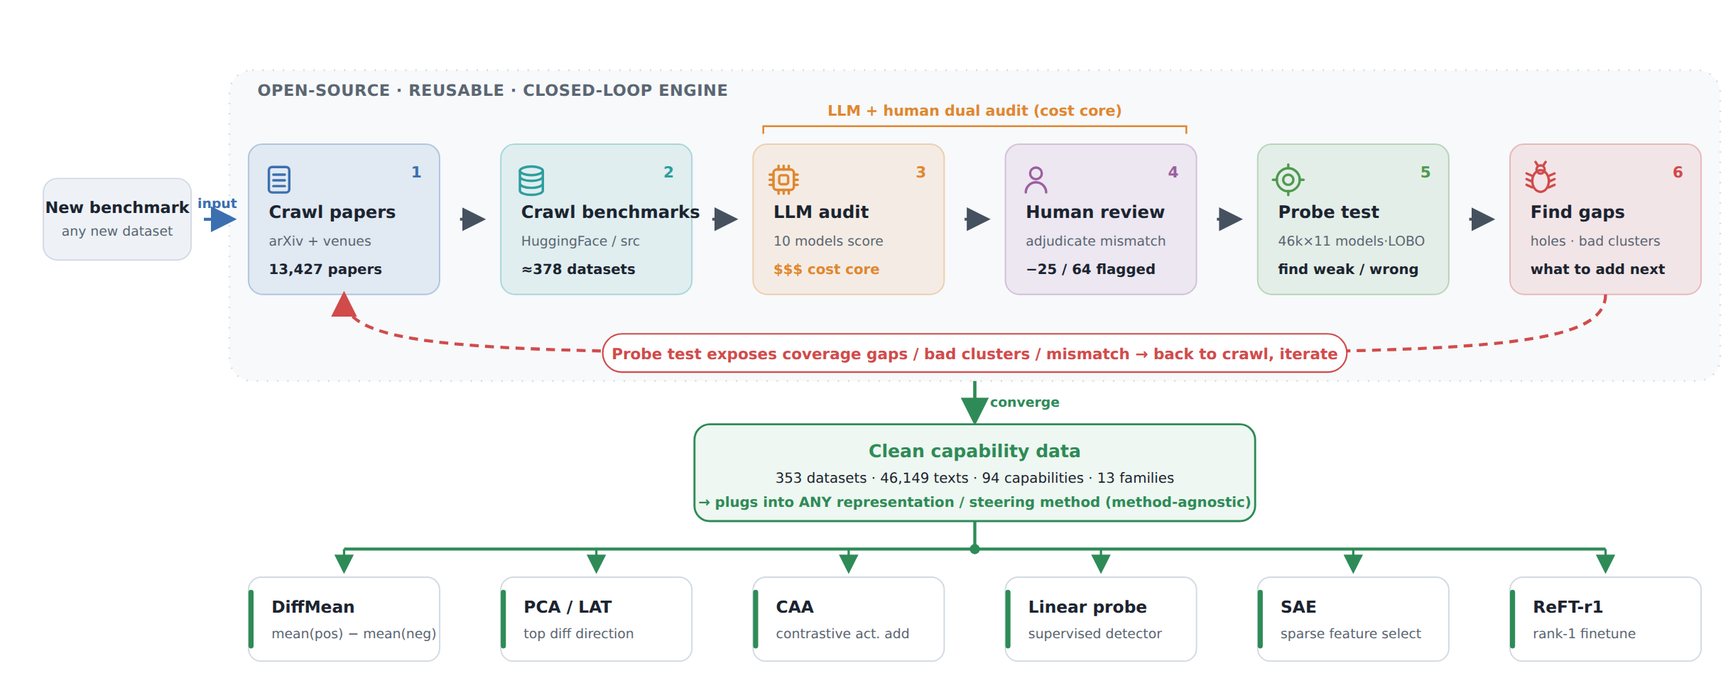
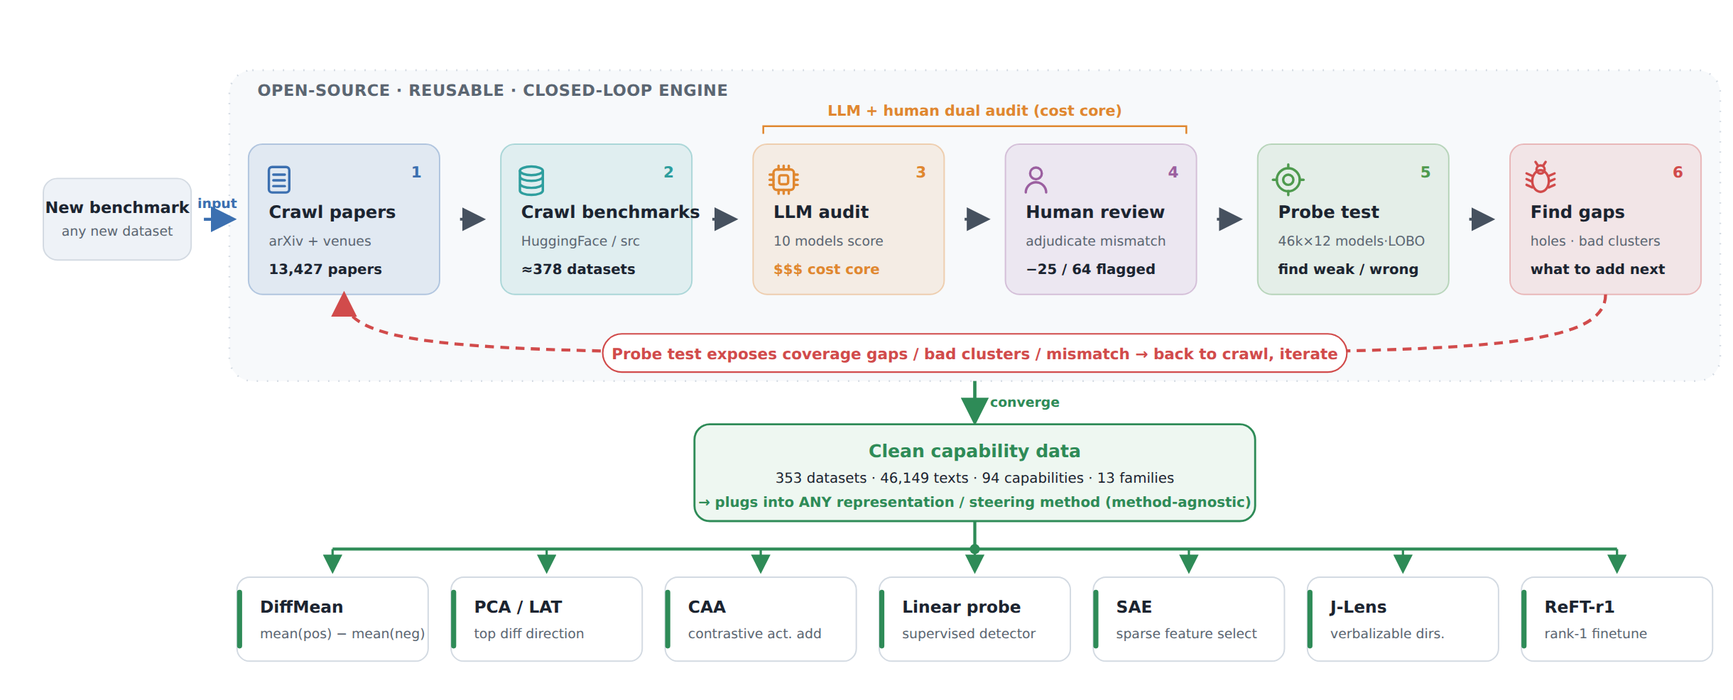
update zh

diff --git a/doc/figures/pipeline.html b/doc/figures/pipeline.html
@@ -32,7 +32,7 @@ crawl → LLM audit → human review → probe test; gaps exposed by testing flo
 <line x1="757.0" y1="171.0" x2="773.0" y2="171.0" stroke="#46515f" stroke-width="2.2" marker-end="url(#ah-46515f)"/>
 <rect x="789.0" y="112" width="150" height="118" rx="11" fill="#9B5FA01c" stroke="#9B5FA055" stroke-width="1.1"/><circle cx="813.0" cy="135" r="4.6" fill="none" stroke="#9B5FA0" stroke-width="1.9" stroke-linecap="round" stroke-linejoin="round"/><path d="M805.0,150 a8,8 0 0 1 16,0" fill="none" stroke="#9B5FA0" stroke-width="1.9" stroke-linecap="round" stroke-linejoin="round"/><text x="925.0" y="138" text-anchor="end" font-size="12" font-weight="800" fill="#9B5FA0">4</text><text x="805.0" y="170" font-size="13.5" font-weight="700" fill="#1b2430">Human review</text><text x="805.0" y="192" font-size="10.5" fill="#5b6672">adjudicate mismatch</text><text x="805.0" y="214" font-size="11" font-weight="700" fill="#1b2430">−25 / 64 flagged</text>
 <line x1="955.0" y1="171.0" x2="971.0" y2="171.0" stroke="#46515f" stroke-width="2.2" marker-end="url(#ah-46515f)"/>
-<rect x="987.0" y="112" width="150" height="118" rx="11" fill="#4E9A4E1c" stroke="#4E9A4E55" stroke-width="1.1"/><circle cx="1011.0" cy="140" r="9" fill="none" stroke="#4E9A4E" stroke-width="1.9" stroke-linecap="round" stroke-linejoin="round"/><circle cx="1011.0" cy="140" r="4" fill="none" stroke="#4E9A4E" stroke-width="1.9" stroke-linecap="round" stroke-linejoin="round"/><line x1="1011.0" y1="128" x2="1011.0" y2="131" fill="none" stroke="#4E9A4E" stroke-width="1.9" stroke-linecap="round" stroke-linejoin="round"/><line x1="1011.0" y1="149" x2="1011.0" y2="152" fill="none" stroke="#4E9A4E" stroke-width="1.9" stroke-linecap="round" stroke-linejoin="round"/><line x1="999.0" y1="140" x2="1002.0" y2="140" fill="none" stroke="#4E9A4E" stroke-width="1.9" stroke-linecap="round" stroke-linejoin="round"/><line x1="1020.0" y1="140" x2="1023.0" y2="140" fill="none" stroke="#4E9A4E" stroke-width="1.9" stroke-linecap="round" stroke-linejoin="round"/><text x="1123.0" y="138" text-anchor="end" font-size="12" font-weight="800" fill="#4E9A4E">5</text><text x="1003.0" y="170" font-size="13.5" font-weight="700" fill="#1b2430">Probe test</text><text x="1003.0" y="192" font-size="10.5" fill="#5b6672">46k×11 models·LOBO</text><text x="1003.0" y="214" font-size="11" font-weight="700" fill="#1b2430">find weak / wrong</text>
+<rect x="987.0" y="112" width="150" height="118" rx="11" fill="#4E9A4E1c" stroke="#4E9A4E55" stroke-width="1.1"/><circle cx="1011.0" cy="140" r="9" fill="none" stroke="#4E9A4E" stroke-width="1.9" stroke-linecap="round" stroke-linejoin="round"/><circle cx="1011.0" cy="140" r="4" fill="none" stroke="#4E9A4E" stroke-width="1.9" stroke-linecap="round" stroke-linejoin="round"/><line x1="1011.0" y1="128" x2="1011.0" y2="131" fill="none" stroke="#4E9A4E" stroke-width="1.9" stroke-linecap="round" stroke-linejoin="round"/><line x1="1011.0" y1="149" x2="1011.0" y2="152" fill="none" stroke="#4E9A4E" stroke-width="1.9" stroke-linecap="round" stroke-linejoin="round"/><line x1="999.0" y1="140" x2="1002.0" y2="140" fill="none" stroke="#4E9A4E" stroke-width="1.9" stroke-linecap="round" stroke-linejoin="round"/><line x1="1020.0" y1="140" x2="1023.0" y2="140" fill="none" stroke="#4E9A4E" stroke-width="1.9" stroke-linecap="round" stroke-linejoin="round"/><text x="1123.0" y="138" text-anchor="end" font-size="12" font-weight="800" fill="#4E9A4E">5</text><text x="1003.0" y="170" font-size="13.5" font-weight="700" fill="#1b2430">Probe test</text><text x="1003.0" y="192" font-size="10.5" fill="#5b6672">46k×12 models·LOBO</text><text x="1003.0" y="214" font-size="11" font-weight="700" fill="#1b2430">find weak / wrong</text>
 <line x1="1153.0" y1="171.0" x2="1169.0" y2="171.0" stroke="#46515f" stroke-width="2.2" marker-end="url(#ah-46515f)"/>
 <rect x="1185.0" y="112" width="150" height="118" rx="11" fill="#D14B4B1c" stroke="#D14B4B55" stroke-width="1.1"/><ellipse cx="1209.0" cy="141" rx="6.5" ry="8.5" fill="none" stroke="#D14B4B" stroke-width="1.9" stroke-linecap="round" stroke-linejoin="round"/><circle cx="1209.0" cy="132" r="3.2" fill="none" stroke="#D14B4B" stroke-width="1.9" stroke-linecap="round" stroke-linejoin="round"/><line x1="1207.0" y1="129" x2="1205.0" y2="126" fill="none" stroke="#D14B4B" stroke-width="1.9" stroke-linecap="round" stroke-linejoin="round"/><line x1="1211.0" y1="129" x2="1213.0" y2="126" fill="none" stroke="#D14B4B" stroke-width="1.9" stroke-linecap="round" stroke-linejoin="round"/><line x1="1202.5" y1="137" x2="1198.0" y2="135" fill="none" stroke="#D14B4B" stroke-width="1.9" stroke-linecap="round" stroke-linejoin="round"/><line x1="1215.5" y1="137" x2="1220.0" y2="135" fill="none" stroke="#D14B4B" stroke-width="1.9" stroke-linecap="round" stroke-linejoin="round"/><line x1="1202.5" y1="141.5" x2="1198.0" y2="139.5" fill="none" stroke="#D14B4B" stroke-width="1.9" stroke-linecap="round" stroke-linejoin="round"/><line x1="1215.5" y1="141.5" x2="1220.0" y2="139.5" fill="none" stroke="#D14B4B" stroke-width="1.9" stroke-linecap="round" stroke-linejoin="round"/><line x1="1202.5" y1="146" x2="1198.0" y2="144" fill="none" stroke="#D14B4B" stroke-width="1.9" stroke-linecap="round" stroke-linejoin="round"/><line x1="1215.5" y1="146" x2="1220.0" y2="144" fill="none" stroke="#D14B4B" stroke-width="1.9" stroke-linecap="round" stroke-linejoin="round"/><text x="1321.0" y="138" text-anchor="end" font-size="12" font-weight="800" fill="#D14B4B">6</text><text x="1201.0" y="170" font-size="13.5" font-weight="700" fill="#1b2430">Find gaps</text><text x="1201.0" y="192" font-size="10.5" fill="#5b6672">holes · bad clusters</text><text x="1201.0" y="214" font-size="11" font-weight="700" fill="#1b2430">what to add next</text>
 <path d="M1260.0,230 C1260.0,276 1140.0,276 765.0,276 C390.0,276 270.0,276 270.0,232" fill="none" stroke="#D14B4B" stroke-width="2.4" stroke-dasharray="7 5" marker-end="url(#ah-D14B4B)"/>
@@ -50,44 +50,48 @@ crawl → LLM audit → human review → probe test; gaps exposed by testing flo
 <text x="765.0" y="378" text-anchor="middle" font-size="11" fill="#1b2430">353 datasets  ·  46,149 texts  ·  94 capabilities  ·  13 families</text>
 <text x="765.0" y="397" text-anchor="middle" font-size="11" font-weight="700" fill="#2E8B57">→ plugs into ANY representation / steering method  (method-agnostic)</text>
 <line x1="765.0" y1="408" x2="765.0" y2="430" stroke="#2E8B57" stroke-width="2.4"/>
-<line x1="270.0" y1="430" x2="1260.0" y2="430" stroke="#2E8B57" stroke-width="2.4"/>
+<line x1="261.0" y1="430" x2="1269.0" y2="430" stroke="#2E8B57" stroke-width="2.4"/>
 <circle cx="765.0" cy="430" r="4" fill="#2E8B57"/>
-<line x1="270.0" y1="430" x2="270.0" y2="446" stroke="#2E8B57" stroke-width="1.8" marker-end="url(#ah-2E8B57)"/>
-<rect x="195.0" y="452" width="150" height="66" rx="10" fill="#fff" stroke="#d3dae2" stroke-width="1.1"/>
-<rect x="195.0" y="462" width="4" height="46" rx="2" fill="#2E8B57"/>
-<text x="213.0" y="480" font-size="13" font-weight="700" fill="#1b2430">DiffMean</text>
-<text x="213.0" y="500" font-size="10.5" fill="#5b6672">mean(pos) − mean(neg)</text>
-<line x1="468.0" y1="430" x2="468.0" y2="446" stroke="#2E8B57" stroke-width="1.8" marker-end="url(#ah-2E8B57)"/>
-<rect x="393.0" y="452" width="150" height="66" rx="10" fill="#fff" stroke="#d3dae2" stroke-width="1.1"/>
-<rect x="393.0" y="462" width="4" height="46" rx="2" fill="#2E8B57"/>
-<text x="411.0" y="480" font-size="13" font-weight="700" fill="#1b2430">PCA / LAT</text>
-<text x="411.0" y="500" font-size="10.5" fill="#5b6672">top diff direction</text>
-<line x1="666.0" y1="430" x2="666.0" y2="446" stroke="#2E8B57" stroke-width="1.8" marker-end="url(#ah-2E8B57)"/>
-<rect x="591.0" y="452" width="150" height="66" rx="10" fill="#fff" stroke="#d3dae2" stroke-width="1.1"/>
-<rect x="591.0" y="462" width="4" height="46" rx="2" fill="#2E8B57"/>
-<text x="609.0" y="480" font-size="13" font-weight="700" fill="#1b2430">CAA</text>
-<text x="609.0" y="500" font-size="10.5" fill="#5b6672">contrastive act. add</text>
-<line x1="864.0" y1="430" x2="864.0" y2="446" stroke="#2E8B57" stroke-width="1.8" marker-end="url(#ah-2E8B57)"/>
-<rect x="789.0" y="452" width="150" height="66" rx="10" fill="#fff" stroke="#d3dae2" stroke-width="1.1"/>
-<rect x="789.0" y="462" width="4" height="46" rx="2" fill="#2E8B57"/>
-<text x="807.0" y="480" font-size="13" font-weight="700" fill="#1b2430">Linear probe</text>
-<text x="807.0" y="500" font-size="10.5" fill="#5b6672">supervised detector</text>
-<line x1="1062.0" y1="430" x2="1062.0" y2="446" stroke="#2E8B57" stroke-width="1.8" marker-end="url(#ah-2E8B57)"/>
-<rect x="987.0" y="452" width="150" height="66" rx="10" fill="#fff" stroke="#d3dae2" stroke-width="1.1"/>
-<rect x="987.0" y="462" width="4" height="46" rx="2" fill="#2E8B57"/>
-<text x="1005.0" y="480" font-size="13" font-weight="700" fill="#1b2430">SAE</text>
-<text x="1005.0" y="500" font-size="10.5" fill="#5b6672">sparse feature select</text>
-<line x1="1260.0" y1="430" x2="1260.0" y2="446" stroke="#2E8B57" stroke-width="1.8" marker-end="url(#ah-2E8B57)"/>
-<rect x="1185.0" y="452" width="150" height="66" rx="10" fill="#fff" stroke="#d3dae2" stroke-width="1.1"/>
-<rect x="1185.0" y="462" width="4" height="46" rx="2" fill="#2E8B57"/>
-<text x="1203.0" y="480" font-size="13" font-weight="700" fill="#1b2430">ReFT-r1</text>
-<text x="1203.0" y="500" font-size="10.5" fill="#5b6672">rank-1 finetune</text>
+<line x1="261.0" y1="430" x2="261.0" y2="446" stroke="#2E8B57" stroke-width="1.8" marker-end="url(#ah-2E8B57)"/>
+<rect x="186.0" y="452" width="150" height="66" rx="10" fill="#fff" stroke="#d3dae2" stroke-width="1.1"/>
+<rect x="186.0" y="462" width="4" height="46" rx="2" fill="#2E8B57"/>
+<text x="204.0" y="480" font-size="13" font-weight="700" fill="#1b2430">DiffMean</text>
+<text x="204.0" y="500" font-size="10.5" fill="#5b6672">mean(pos) − mean(neg)</text>
+<line x1="429.0" y1="430" x2="429.0" y2="446" stroke="#2E8B57" stroke-width="1.8" marker-end="url(#ah-2E8B57)"/>
+<rect x="354.0" y="452" width="150" height="66" rx="10" fill="#fff" stroke="#d3dae2" stroke-width="1.1"/>
+<rect x="354.0" y="462" width="4" height="46" rx="2" fill="#2E8B57"/>
+<text x="372.0" y="480" font-size="13" font-weight="700" fill="#1b2430">PCA / LAT</text>
+<text x="372.0" y="500" font-size="10.5" fill="#5b6672">top diff direction</text>
+<line x1="597.0" y1="430" x2="597.0" y2="446" stroke="#2E8B57" stroke-width="1.8" marker-end="url(#ah-2E8B57)"/>
+<rect x="522.0" y="452" width="150" height="66" rx="10" fill="#fff" stroke="#d3dae2" stroke-width="1.1"/>
+<rect x="522.0" y="462" width="4" height="46" rx="2" fill="#2E8B57"/>
+<text x="540.0" y="480" font-size="13" font-weight="700" fill="#1b2430">CAA</text>
+<text x="540.0" y="500" font-size="10.5" fill="#5b6672">contrastive act. add</text>
+<line x1="765.0" y1="430" x2="765.0" y2="446" stroke="#2E8B57" stroke-width="1.8" marker-end="url(#ah-2E8B57)"/>
+<rect x="690.0" y="452" width="150" height="66" rx="10" fill="#fff" stroke="#d3dae2" stroke-width="1.1"/>
+<rect x="690.0" y="462" width="4" height="46" rx="2" fill="#2E8B57"/>
+<text x="708.0" y="480" font-size="13" font-weight="700" fill="#1b2430">Linear probe</text>
+<text x="708.0" y="500" font-size="10.5" fill="#5b6672">supervised detector</text>
+<line x1="933.0" y1="430" x2="933.0" y2="446" stroke="#2E8B57" stroke-width="1.8" marker-end="url(#ah-2E8B57)"/>
+<rect x="858.0" y="452" width="150" height="66" rx="10" fill="#fff" stroke="#d3dae2" stroke-width="1.1"/>
+<rect x="858.0" y="462" width="4" height="46" rx="2" fill="#2E8B57"/>
+<text x="876.0" y="480" font-size="13" font-weight="700" fill="#1b2430">SAE</text>
+<text x="876.0" y="500" font-size="10.5" fill="#5b6672">sparse feature select</text>
+<line x1="1101.0" y1="430" x2="1101.0" y2="446" stroke="#2E8B57" stroke-width="1.8" marker-end="url(#ah-2E8B57)"/>
+<rect x="1026.0" y="452" width="150" height="66" rx="10" fill="#fff" stroke="#d3dae2" stroke-width="1.1"/>
+<rect x="1026.0" y="462" width="4" height="46" rx="2" fill="#2E8B57"/>
+<text x="1044.0" y="480" font-size="13" font-weight="700" fill="#1b2430">J-Lens</text>
+<text x="1044.0" y="500" font-size="10.5" fill="#5b6672">verbalizable dirs.</text>
+<line x1="1269.0" y1="430" x2="1269.0" y2="446" stroke="#2E8B57" stroke-width="1.8" marker-end="url(#ah-2E8B57)"/>
+<rect x="1194.0" y="452" width="150" height="66" rx="10" fill="#fff" stroke="#d3dae2" stroke-width="1.1"/>
+<rect x="1194.0" y="462" width="4" height="46" rx="2" fill="#2E8B57"/>
+<text x="1212.0" y="480" font-size="13" font-weight="700" fill="#1b2430">ReFT-r1</text>
+<text x="1212.0" y="500" font-size="10.5" fill="#5b6672">rank-1 finetune</text>
 </svg></div>
 <div class="cap"><b>Figure 1.</b> The closed-loop data-synthesis pipeline. The orange/purple stages
 (LLM audit + human review) are the quality and cost core: 10 models vote on every text↔capability mapping via
 hidden-state agreement, and humans adjudicate suspected mismatches. The red dashed arc is the iteration loop —
 coverage gaps and bad clusters found by the probe test (stage 5) flow back to crawling, making the pipeline a
 repeatable engine. Once open-sourced, the community can feed in new benchmarks and obtain same-format clean data,
-which is <b>method-agnostic</b>: it drives DiffMean, PCA/LAT, CAA, linear probing, SAE, and ReFT-r1 alike
-(method taxonomy following AxBench).</div>
+which is <b>method-agnostic</b>: it drives DiffMean, PCA/LAT, CAA, linear probing, SAE, J-Lens, and ReFT-r1 alike.</div>
 </body></html>

diff --git a/doc/figures/method_model_eval.html b/doc/figures/method_model_eval.html
@@ -99,7 +99,7 @@ method itself is a meaningful evaluation dimension.</div>
 </main>
 <div id="tt"></div>
 <script>
-const D={"order": ["qwen3-0.6b", "qwen3-1.7b", "qwen3-4b", "qwen3-8b", "qwen3-32b", "qwen3.5-9b", "llama3.1-8b", "gemma2-9b", "gemma4-12b", "gemma4-31b", "deepseek-r1-8b"], "perModel": {"qwen3-0.6b": {"diffmean": 0.775, "lr": 0.746, "pca": 0.71}, "qwen3-1.7b": {"diffmean": 0.776, "lr": 0.764, "pca": 0.726}, "qwen3-4b": {"diffmean": 0.79, "lr": 0.779, "pca": 0.724}, "qwen3-8b": {"diffmean": 0.785, "lr": 0.748, "pca": 0.736}, "qwen3-32b": {"diffmean": 0.794, "lr": 0.782, "pca": 0.739}, "qwen3.5-9b": {"diffmean": 0.795, "lr": 0.769, "pca": 0.755}, "llama3.1-8b": {"diffmean": 0.788, "lr": 0.762, "pca": 0.734}, "gemma2-9b": {"diffmean": 0.792, "lr": 0.781, "pca": 0.73}, "gemma4-12b": {"diffmean": 0.794, "lr": 0.772, "pca": 0.762}, "gemma4-31b": {"diffmean": 0.79, "lr": 0.776, "pca": 0.737}, "deepseek-r1-8b": {"diffmean": 0.732, "lr": 0.754, "pca": 0.666}}, "methods": [["diffmean", "diff-mean"], ["lr", "LR"], ["pca", "PCA"]], "display": {"deepseek-r1-8b": "r1-distill-8b", "deepseek-v4-flash": "dsv4-flash-base"}, "grand": {"diffmean": 0.783, "lr": 0.767, "pca": 0.729}, "win": {"diffmean": 384, "lr": 473, "pca": 177}, "winpct": {"diffmean": 37, "lr": 46, "pca": 17}, "ncell": 1034, "dmclaim": "diff-mean has the highest mean on 10 of 11 models — the exception: r1-distill-8b (LR 0.754 > dm 0.732)"};
+const D={"order": ["qwen3-0.6b", "qwen3-1.7b", "qwen3-4b", "qwen3-8b", "qwen3-32b", "qwen3.5-9b", "llama3.1-8b", "gemma2-9b", "gemma4-12b", "gemma4-31b", "deepseek-r1-8b", "deepseek-v4-flash"], "perModel": {"qwen3-0.6b": {"diffmean": 0.775, "lr": 0.746, "pca": 0.71}, "qwen3-1.7b": {"diffmean": 0.776, "lr": 0.764, "pca": 0.726}, "qwen3-4b": {"diffmean": 0.79, "lr": 0.779, "pca": 0.724}, "qwen3-8b": {"diffmean": 0.785, "lr": 0.748, "pca": 0.736}, "qwen3-32b": {"diffmean": 0.794, "lr": 0.782, "pca": 0.739}, "qwen3.5-9b": {"diffmean": 0.795, "lr": 0.769, "pca": 0.755}, "llama3.1-8b": {"diffmean": 0.788, "lr": 0.762, "pca": 0.734}, "gemma2-9b": {"diffmean": 0.792, "lr": 0.781, "pca": 0.73}, "gemma4-12b": {"diffmean": 0.794, "lr": 0.772, "pca": 0.762}, "gemma4-31b": {"diffmean": 0.79, "lr": 0.776, "pca": 0.737}, "deepseek-r1-8b": {"diffmean": 0.732, "lr": 0.754, "pca": 0.666}, "deepseek-v4-flash": {"diffmean": 0.72, "lr": 0.733, "pca": 0.665}}, "methods": [["diffmean", "diff-mean"], ["lr", "LR"], ["pca", "PCA"]], "display": {"deepseek-r1-8b": "r1-distill-8b", "deepseek-v4-flash": "dsv4-flash-base"}, "grand": {"diffmean": 0.778, "lr": 0.764, "pca": 0.724}, "win": {"diffmean": 410, "lr": 525, "pca": 193}, "winpct": {"diffmean": 36, "lr": 47, "pca": 17}, "ncell": 1128, "dmclaim": "diff-mean has the highest mean on 10 of 12 models — the exceptions: r1-distill-8b (LR 0.754 > dm 0.732), dsv4-flash-base (LR 0.733 > dm 0.720)"};
 const css = n => getComputedStyle(document.body).getPropertyValue(n).trim();
 const KEY2VAR = {diffmean:'--series-1', lr:'--series-2', pca:'--series-3'};
 const tt=document.getElementById('tt');

diff --git a/README_zh.md b/README_zh.md
@@ -1,0 +1,119 @@
+# 潜在能力表征基准（Latent Capability Representation Benchmark）
+
+[English](README.md) | **中文**
+
+**把*任意*评测基准编译成干净的按能力组织的表征数据——并度量能力方向在跨基准、跨模型、跨探针方法下的泛化能力。**
+
+大多数表征工程工作从单一数据集里提取"能力方向"，方向因此继承了那个数据集的格式和 token 癖好。本项目补上缺失的数据层：一个从基准文献中挖掘出的能力分类体系、一个**每个能力都有 ≥ 2 个独立基准支撑**的探针语料库，以及一套评测——证明跨基准池化正是让能力向量变干净的关键，对任意模型、任意探针方法都成立。
+
+---
+
+## 1 · 数据管线：开源、可复用的闭环引擎
+
+![Data pipeline](asset/fig1_pipeline.png)
+
+给定任何一个新基准，管线自动完成：爬取 → 用 10 个模型的隐状态投票 + 人工裁决审计每一条"文本↔能力"映射 → 探针测试 → 把暴露出的缺口反馈给爬取环节——这是一个可重复运转的闭环，而不是一次性的数据集。产出是**方法无关**的：同一份干净数据可以直接喂给 DiffMean、PCA/LAT、CAA、线性探针、SAE、J-Lens、ReFT-r1 等任何方法。
+
+*交互版：[`doc/figures/pipeline.html`](doc/figures/pipeline.html)*
+
+## 2 · 能力全景图：基准到底在测什么
+
+![Capability landscape](asset/fig2_capability_map.png)
+
+我们爬取了 **13,427 篇基准论文**，抽取 **14,896 条能力表述**，去重后得到 **9,576 个能力概念**（上图每个点，UMAP 布局，点的大小 ∝ 提及次数），聚成 **13 个能力族、182 个能力簇**（八个最大的族分别着色——多模态理解、推理、代码与调试、安全与鲁棒性、规划与工具使用、事实性与依据、社交与语用、多语言——其余折入灰色）。标签标出最大的簇。182 个簇中有 **94 个**拥有足够的纯文本基准可供探针测试；多模态理解（0/31）和规划与工具使用（0/23）需要图像输入或智能体轨迹，我们把它们如实报告为纯文本探针的覆盖边界。
+
+*交互版（缩放 / 搜索 / 按族筛选）：[`doc/figures/capability_map.html`](doc/figures/capability_map.html)*
+
+## 3 · 干净的能力表征：池化前 → 池化后
+
+![Representation clustering](asset/fig3_representation_clusters.png)
+
+单个基准的隐状态携带着该基准自己的指纹。由于语料库里每个能力都被 **≥ 2 个基准（中位数 3 个）**覆盖，我们可以把每个能力的表征*跨基准*取平均——基准特有的方差相互抵消，留下一个干净的能力向量。
+
+**(A)** 六个模型各自把 94 个池化后的能力向量聚成少数几个分离清晰的组。**(B)** 同一模型池化前后对比：46,149 条原始逐文本向量糊成一团，而 94 个池化向量干净地分开。定量上：原始向量的 silhouette-vs-k 曲线单调爬升到扫描上限（不存在自然簇数），而池化后在小 k 处（4–15）出现内部峰值——**所有被测模型无一例外**。我们只主张"粗粒度结构的涌现"，不主张确切的簇数；模型自己发现的簇并不复现人类的能力族分类（ARI ≈ 0.1）——这在预期之内，而且本身就是有趣的发现。
+
+*交互版：[`doc/figures/representation_clusters.html`](doc/figures/representation_clusters.html)*
+
+## 4 · 评测：同一协议下的模型 × 探针方法
+
+![Method × model evaluation](asset/fig4_method_model_eval.png)
+
+每个（能力，模型，方法）单元格都用**留一基准（leave-one-benchmark-out, LOBO）**评测：方向在完全不含被留出基准任何文本的情况下训练，再在该基准上测试——测的是跨基准泛化，不是记忆。每个模型在四个相对深度（25/50/75/100%）中取自己的最优层。
+
+| | diff-mean | 线性探针（LR） | PCA |
+|---|---|---|---|
+| 平均 LOBO AUC（全部模型） | **0.778** | 0.764 | 0.724 |
+| 单元格胜率 | 36% | **47%** | 17% |
+
+诚实的解读：**diff-mean 在 12 个模型中的 10 个上均值最高**（下限最高、免训练——最好的单一默认方法），而 **LR 赢下最多单元格**（它在接近天花板的简单簇上小胜，但在困难簇上崩得更狠）。两个例外恰好是两个非标准模型：R1 蒸馏版 Qwen3-8B（LR 0.754 vs 0.732）和 DeepSeek-V4-Flash 基座模型（LR 0.733 vs 0.720）。蒸馏这组是受控对照——架构与 Qwen3-8B 完全相同，蒸馏却让 diff-mean 下降 0.053（从 0.785）——暗示推理后训练会重塑能力的线性编码方式。方法轴的差异（~0.05）仍然大于模型轴（~0.02）——探针方法本身就是一个有意义的评测维度。
+
+**被测模型（12 个）：** Qwen3-0.6B / 1.7B / 4B / 8B / 32B、Qwen3.5-9B、Llama-3.1-8B-Instruct、Gemma2-9B、Gemma4-12B / 31B、DeepSeek-R1-0528-Qwen3-8B（在 R1 轨迹上蒸馏的 Qwen3-8B——作为后训练对照引入，不算额外架构）、DeepSeek-V4-Flash-Base（带 hyper-connection 残差流的 fp8 MoE；按原始基座模型探测——不加对话模板，四条并行残差流取平均，fp8 反量化为 bf16）。
+
+*交互版：[`doc/figures/method_model_eval.html`](doc/figures/method_model_eval.html)*
+
+---
+
+## 数据卡
+
+| | |
+|---|---|
+| 基准数据集 | 353（爬取约 378，经 10 模型一致性投票清洗：标记 64、移除 25） |
+| 探针文本 | 46,149 |
+| 能力簇 | 94，**100% 由 ≥ 2 个基准支撑**（中位数 3，最多 21） |
+| 能力族 | 13 |
+| 模型 × 层 | 12 个模型 × 4 个相对深度（最后 token 隐状态） |
+| 协议 | 留一基准 AUC，分层负采样 |
+
+## 如实说明的局限
+
+- **覆盖：** 多模态理解、规划与工具使用不在探针语料内（需要图像/智能体输入）——分类体系精确量化了这个缺口有多大。
+- **结构结论：** 我们只主张池化后涌现*粗粒度*离散结构（小 k 处的内部 silhouette 峰值），从不主张"恰好 N 个簇"——最优 k 随模型在 4–15 间变化。
+- **与人类分类的对齐：** 模型发现的簇不复现人类 13 族分类（ARI ≈ 0.1）。模型按自己的方式组织能力。
+- **方法排名取决于统计量：** diff-mean 赢均值（12 个模型中的 10 个），LR 赢单元格计数——且在两个非标准模型（R1 蒸馏版和 V4 基座 MoE）上 LR 连均值也赢。我们两个统计量都报告。
+
+## 仓库结构
+
+```
+asset/                          README 使用的渲染图（PNG）
+doc/figures/                    四张图的交互式 HTML 版本
+src/representation_cluster/     表征拟合管线（已封装）
+tmp_scripts/
+  benchmark_data_crawl/         工作管线：爬取 → 映射 → 清洗 →
+                                extract_hidden.py → probe_clusters.py →
+                                method_compare.py → repcluster.py / repclean.py
+                                + 出图脚本（build_fig*.py）
+  capability_clustering_v2/     分类体系挖掘 + 能力全景图
+data/                           进度快照
+```
+
+## 复现
+
+```bash
+cd tmp_scripts/benchmark_data_crawl
+
+# 1. 抽取最后 token 隐状态（每张 GPU 一个分片）
+CUDA_VISIBLE_DEVICES=0 python3 extract_hidden.py --model <hf_path> --tag mymodel --shard 0 --nshards 4
+#    大型 fp8 权重：加 --device-map auto --dequant-fp8
+
+# 2. diff-mean 探针 + 最优层选择（LOBO）
+python3 probe_clusters.py --tag mymodel
+
+# 3. 最优层上的方法对比（diff-mean / LR / PCA）
+python3 method_compare.py --tag mymodel
+
+# 4. 表征聚类：原始 46k 文本（脏）与池化后 94 向量（干净）
+python3 repcluster.py --tag mymodel
+python3 repclean.py   --tag mymodel
+```
+
+## 引用
+
+```bibtex
+@article{latent_capability_benchmark_2026,
+  title   = {A Latent Capability Representation Benchmark: Clean Per-Capability
+             Data for Representation Engineering},
+  author  = {...},
+  journal = {Under review},
+  year    = {2026}
+}
+```

diff --git a/README.md b/README.md
@@ -1,5 +1,7 @@
 # Latent Capability Representation Benchmark
 
+**English** | [中文](README_zh.md)
+
 **Turn *any* evaluation benchmark into clean per-capability representation data — then measure how well capability directions generalize across benchmarks, models, and probing methods.**
 
 Most representation-engineering work extracts a "capability direction" from a single dataset, so the direction inherits that dataset's format and token quirks. This project builds the missing data layer: a capability taxonomy mined from the benchmark literature, a probe corpus where **every capability is backed by ≥ 2 independent benchmarks**, and an evaluation showing that pooling across benchmarks is what makes capability vectors clean — for any model and any probing method.
@@ -10,7 +12,7 @@ Most representation-engineering work extracts a "capability direction" from a si
 
 ![Data pipeline](asset/fig1_pipeline.png)
 
-Given any new benchmark, the pipeline crawls it, audits every text↔capability mapping with a 10-model hidden-state vote plus human adjudication, probe-tests the result, and feeds the exposed gaps back into crawling — a repeatable loop, not a one-off dataset. The output is **method-agnostic**: the same clean data drives DiffMean, PCA/LAT, CAA, linear probes, SAEs, and ReFT-r1 alike (method taxonomy following [AxBench](https://arxiv.org/abs/2501.17148)).
+Given any new benchmark, the pipeline crawls it, audits every text↔capability mapping with a 10-model hidden-state vote plus human adjudication, probe-tests the result, and feeds the exposed gaps back into crawling — a repeatable loop, not a one-off dataset. The output is **method-agnostic**: the same clean data drives DiffMean, PCA/LAT, CAA, linear probes, SAEs, J-Lens, and ReFT-r1 alike.
 
 *Interactive version: [`doc/figures/pipeline.html`](doc/figures/pipeline.html)*
 
@@ -40,12 +42,12 @@ Every (capability, model, method) cell is evaluated with **leave-one-benchmark-o
 
 | | diff-mean | linear probe (LR) | PCA |
 |---|---|---|---|
-| Mean LOBO AUC (all models) | **0.783** | 0.767 | 0.729 |
-| Per-cell wins | 37% | **46%** | 17% |
+| Mean LOBO AUC (all models) | **0.778** | 0.764 | 0.724 |
+| Per-cell wins | 36% | **47%** | 17% |
 
-The honest reading: **diff-mean has the highest mean on 10 of 11 models** (highest floor, training-free — the best single default), while **LR wins the most individual cells** (it ekes out wins on easy near-ceiling clusters but crashes on hard ones). The one exception is instructive: on the R1-distilled Qwen3-8B, LR overtakes diff-mean (0.754 vs 0.732) — and the distillation itself drops diff-mean by 0.053 relative to the *same-architecture* base (Qwen3-8B: 0.785), a controlled hint that reasoning post-training reshapes how linearly capabilities are encoded. The method axis separates more (~0.05) than the model axis (~0.02) — the probing method is itself a meaningful evaluation dimension.
+The honest reading: **diff-mean has the highest mean on 10 of 12 models** (highest floor, training-free — the best single default), while **LR wins the most individual cells** (it ekes out wins on easy near-ceiling clusters but crashes on hard ones). The two exceptions are exactly the two non-standard models: the R1-distilled Qwen3-8B (LR 0.754 vs 0.732) and the DeepSeek-V4-Flash base model (LR 0.733 vs 0.720). The distill case is a controlled comparison — same architecture as Qwen3-8B, yet distillation drops diff-mean by 0.053 (from 0.785) — a hint that reasoning post-training reshapes how linearly capabilities are encoded. The method axis still separates more (~0.05) than the model axis (~0.02) — the probing method is itself a meaningful evaluation dimension.
 
-**Models evaluated (11):** Qwen3-0.6B / 1.7B / 4B / 8B / 32B, Qwen3.5-9B, Llama-3.1-8B-Instruct, Gemma2-9B, Gemma4-12B / 31B, and DeepSeek-R1-0528-Qwen3-8B — the latter is a Qwen3-8B distilled on R1 traces (same architecture as Qwen3-8B), included as a post-training contrast rather than an extra architecture family.
+**Models evaluated (12):** Qwen3-0.6B / 1.7B / 4B / 8B / 32B, Qwen3.5-9B, Llama-3.1-8B-Instruct, Gemma2-9B, Gemma4-12B / 31B, DeepSeek-R1-0528-Qwen3-8B (a Qwen3-8B distilled on R1 traces — included as a post-training contrast, not an extra architecture), and DeepSeek-V4-Flash-Base (fp8 MoE with hyper-connection residual streams; probed as a raw base model — no chat template, the four parallel residual streams averaged, fp8 dequantized to bf16).
 
 *Interactive version: [`doc/figures/method_model_eval.html`](doc/figures/method_model_eval.html)*
 
@@ -59,7 +61,7 @@ The honest reading: **diff-mean has the highest mean on 10 of 11 models** (highe
 | Probe texts | 46,149 |
 | Capability clusters | 94, **100% backed by ≥ 2 benchmarks** (median 3, max 21) |
 | Capability families | 13 |
-| Models × layers | 11 models × 4 fractional depths (last-token hidden states) |
+| Models × layers | 12 models × 4 fractional depths (last-token hidden states) |
 | Protocol | leave-one-benchmark-out AUC, stratified negatives |
 
 ## Honest limitations
@@ -67,7 +69,7 @@ The honest reading: **diff-mean has the highest mean on 10 of 11 models** (highe
 - **Coverage:** multimodal grounding and planning & tool use are absent from the probe corpus (image/agentic inputs needed) — the taxonomy shows exactly how big that gap is.
 - **Structure claim:** we claim *coarse* discrete structure emerges after pooling (interior silhouette peak at small k), never "exactly N clusters" — best-k varies by model (4–15).
 - **Taxonomy alignment:** model-discovered clusters do not reproduce the human 13-family taxonomy (ARI ≈ 0.1). Models organize capabilities their own way.
-- **Method ranking depends on the statistic:** diff-mean wins on means (10 of 11 models), LR on per-cell counts — and on the R1-distilled model LR wins the mean too. We report both.
+- **Method ranking depends on the statistic:** diff-mean wins on means (10 of 12 models), LR on per-cell counts — and on the two non-standard models (the R1 distill and the V4 base MoE) LR wins the mean too. We report both.
 
 ## Repository layout
 
